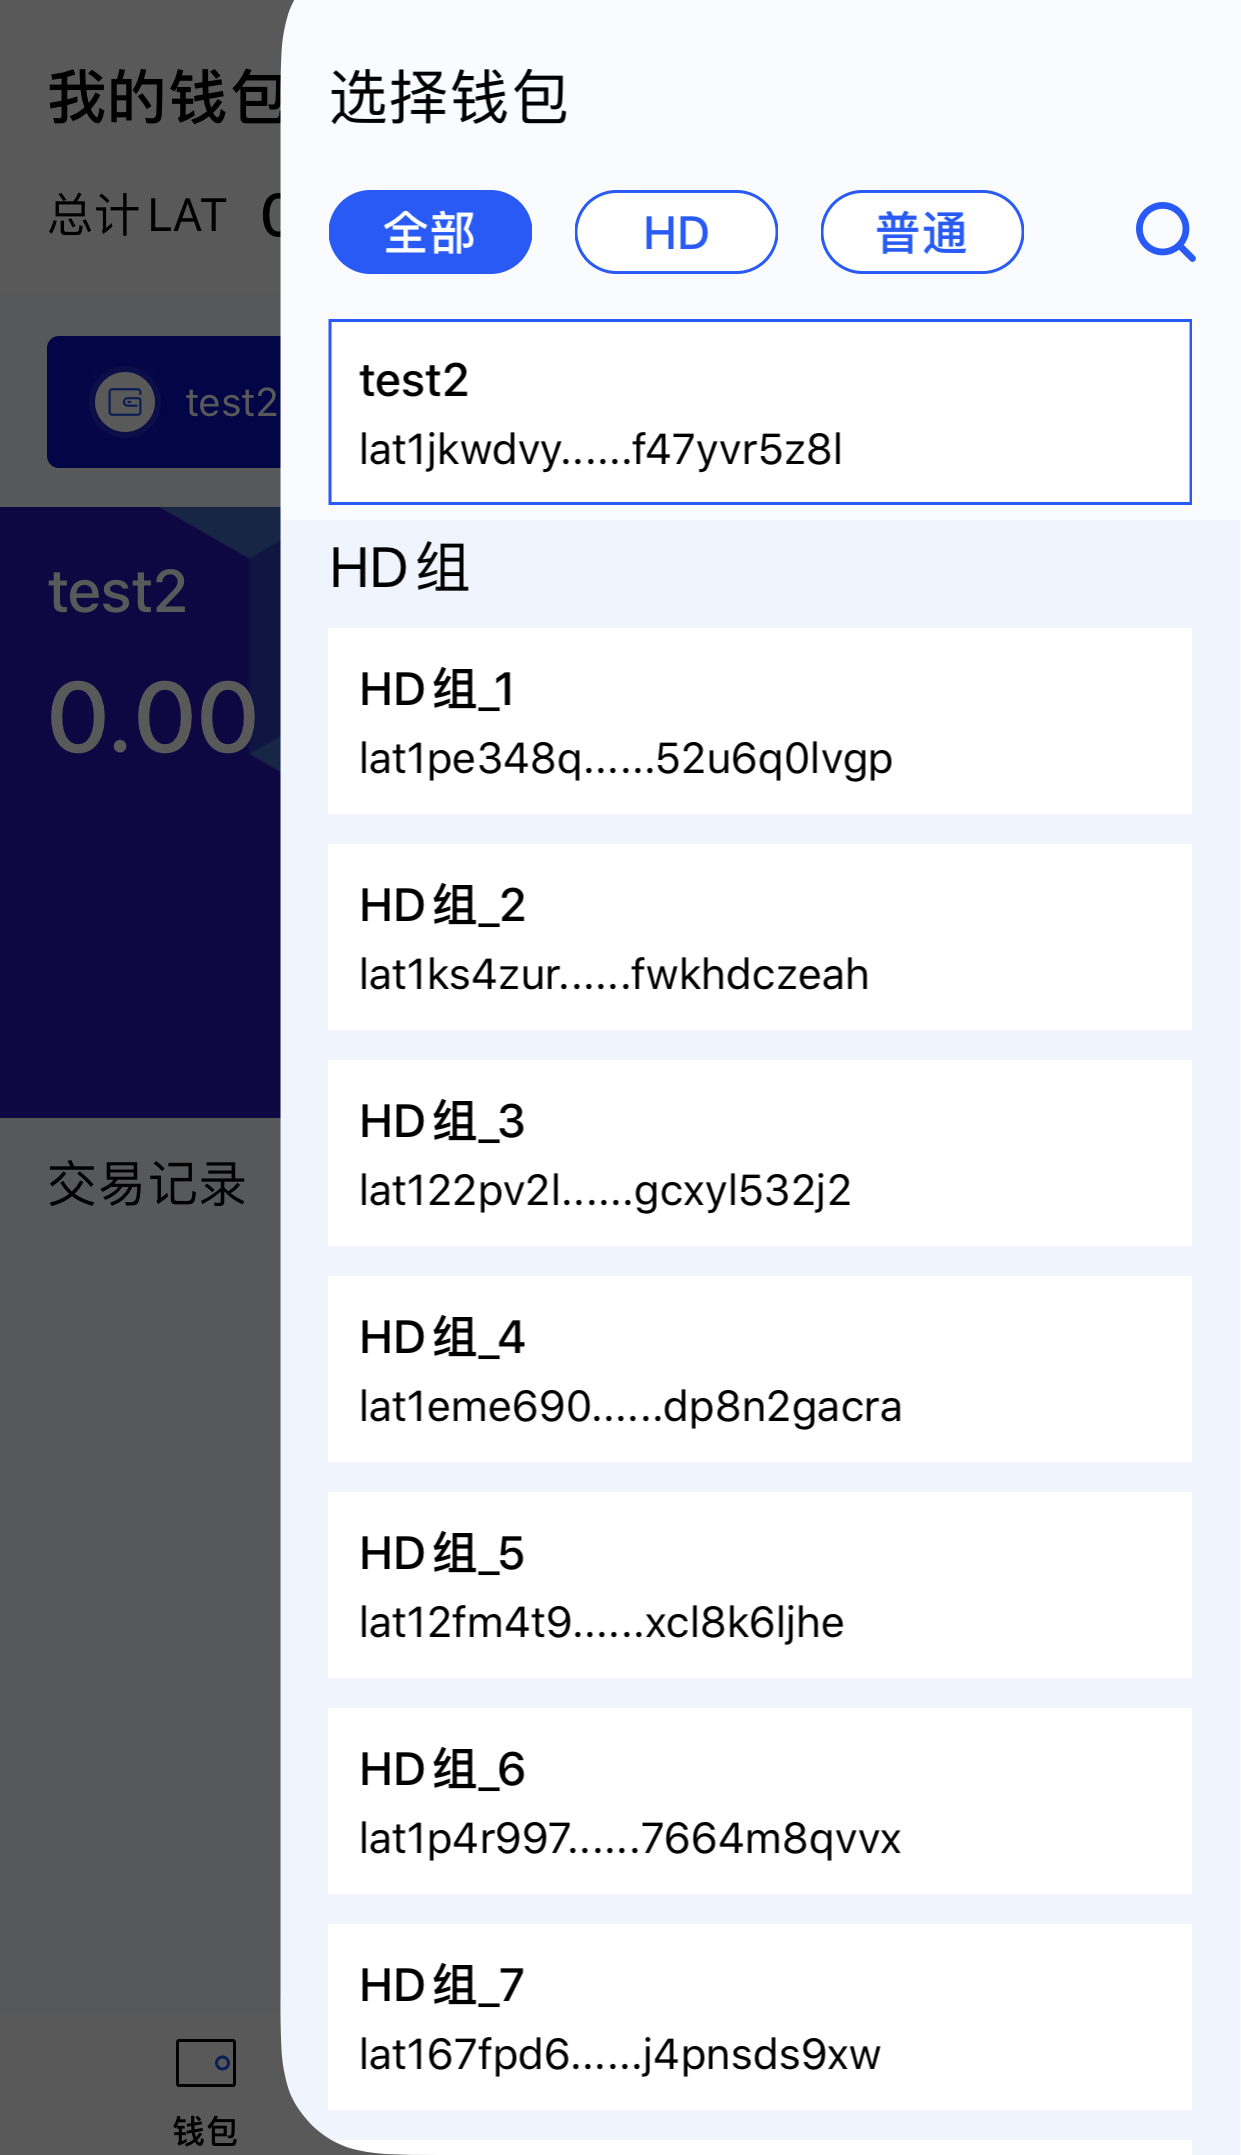
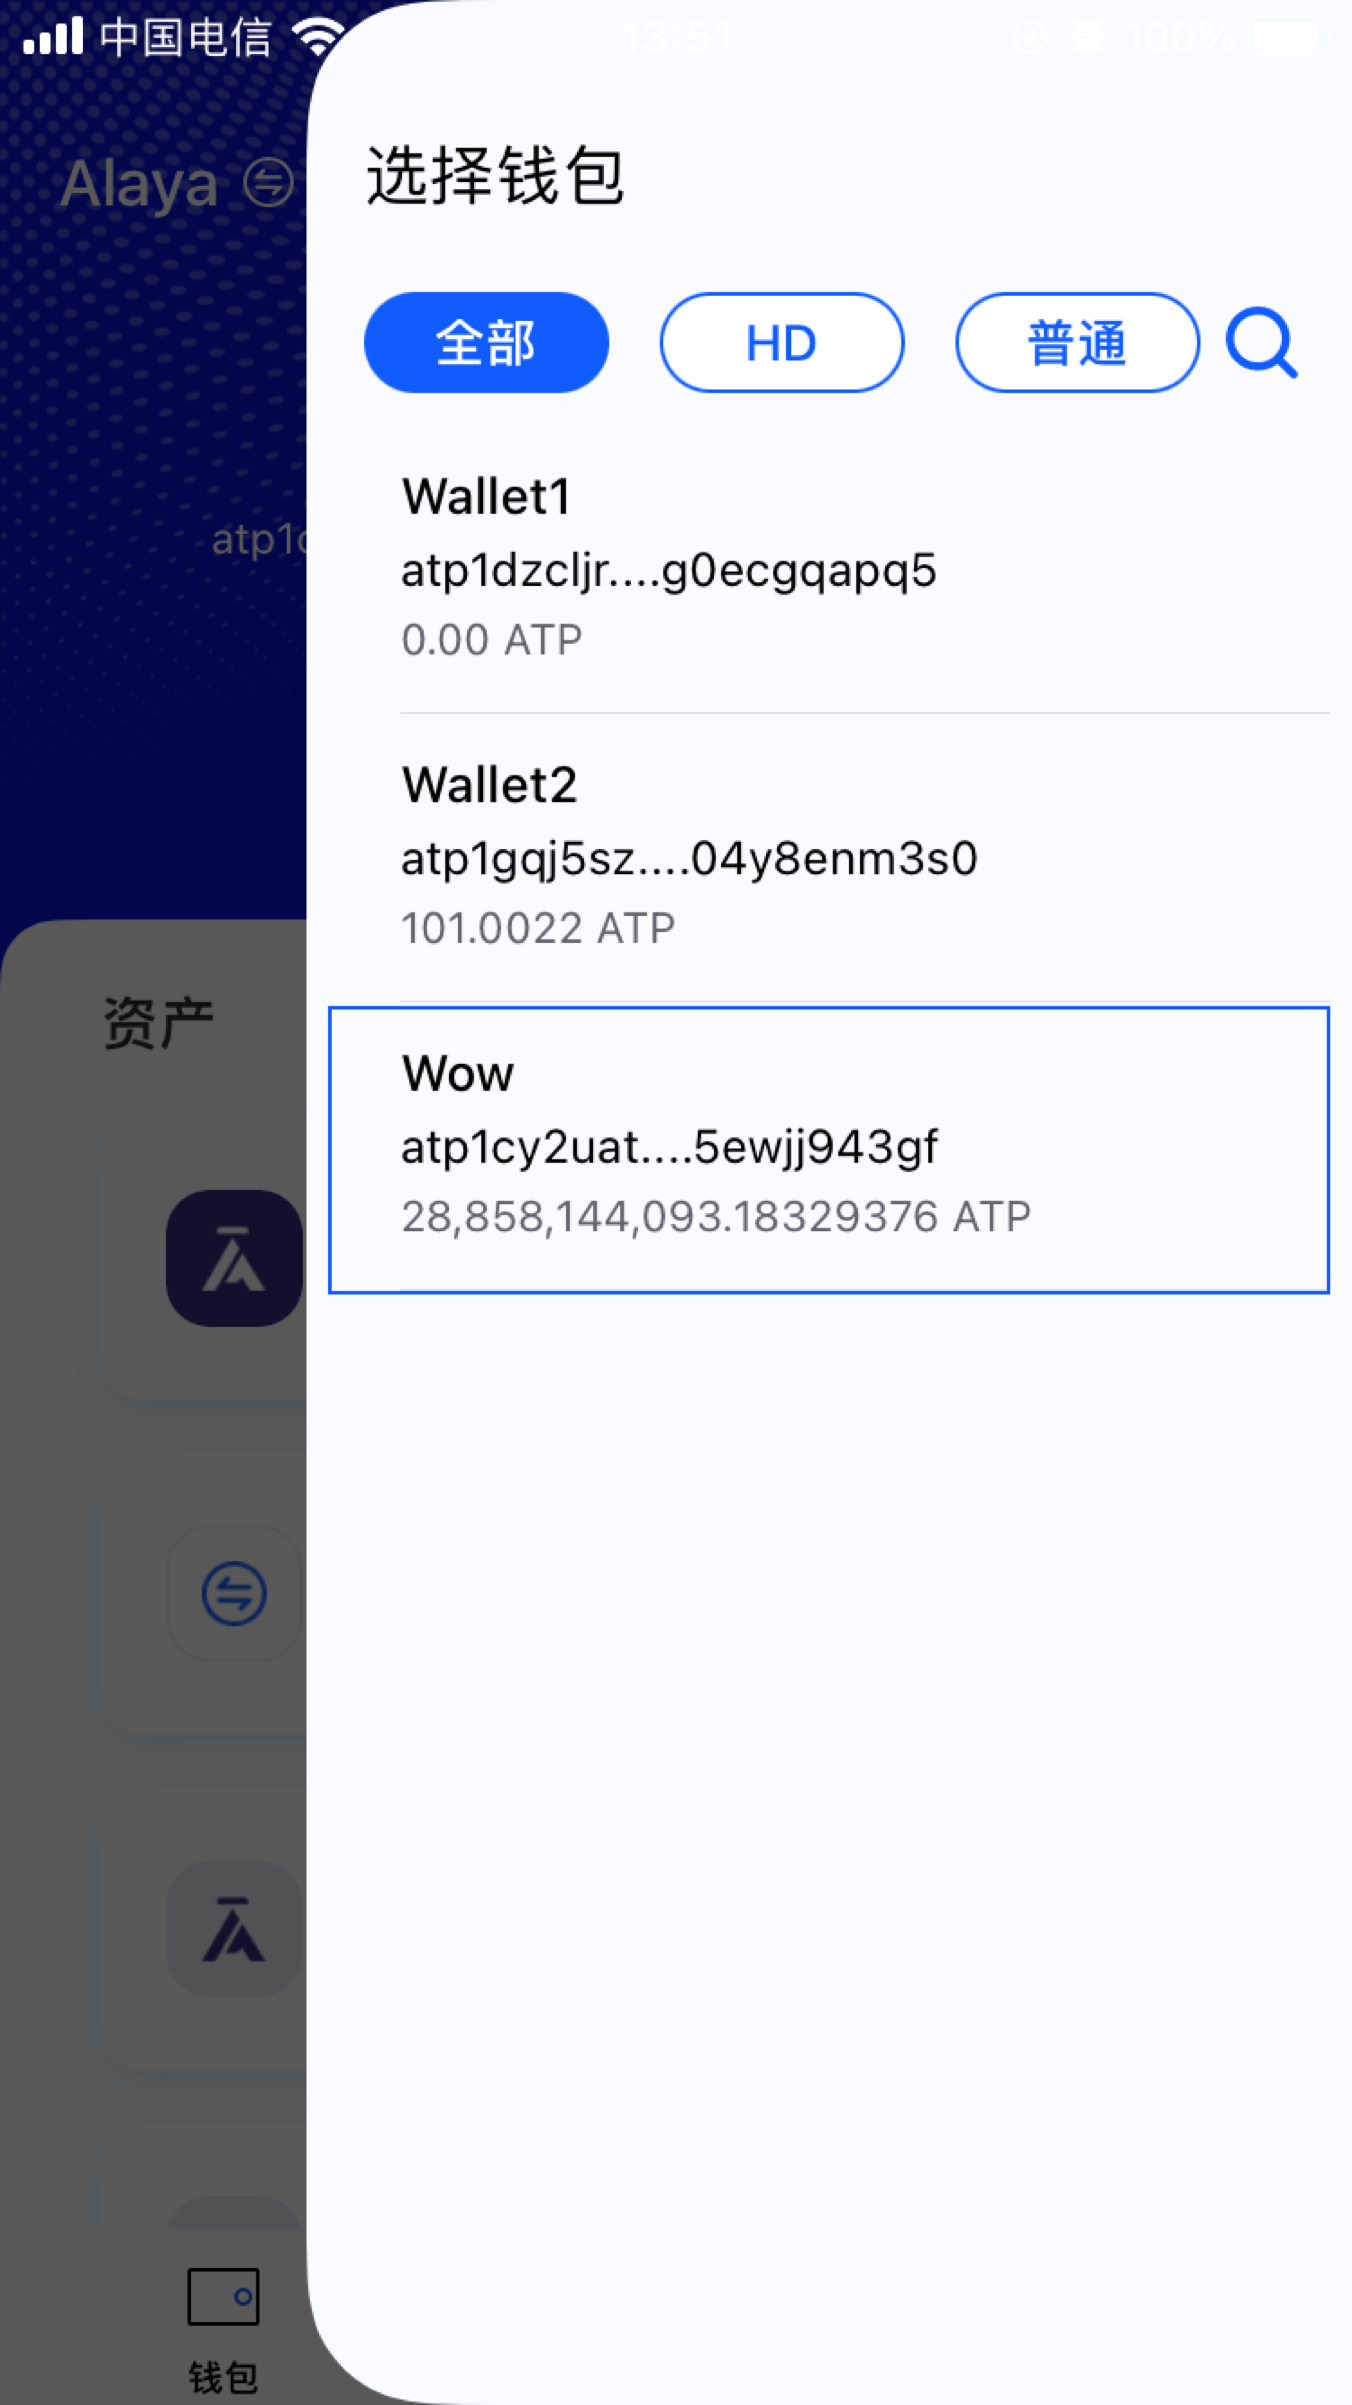
Documents for Chinese update

diff --git a/website/translated_docs/zh-CN/ATON-user-manual.md b/website/translated_docs/zh-CN/ATON-user-manual.md
@@ -5,7 +5,7 @@ title: ATON钱包用户使用手册
 
 ## ATON 下载
 
-<div><br/><a href="https://platon.network/developer/?lang=zh#aton" target="_blank" >点击下载ATON最新版本 </a></div>
+<div><br/><a href="https://pATPon.network/developer/?lang=zh#aton" target="_blank" >点击下载ATON最新版本 </a></div>
 <div style="clear:both"></div>
 <div style="margin-top:40px;"></div>
 
@@ -13,6 +13,28 @@ title: ATON钱包用户使用手册
 
 <div>
 <div style="float:left;"><img src="/alaya-devdocs/img/zh-CN/ATON-manual-cn.assets/aton2.png" width="500" style="padding-bottom:50px;" /></div> <div><br>1. 点击【创建钱包】。<br>2. 选择钱包类型（普通或HD），设置符合规则的钱包名称和钱包密码。<br>3. 点击【创建钱包】按钮即可创建钱包。<br>4. 钱包创建成功后可以点击【钱包备份】开始备份，或者点击【跳过】后续进行备份。<br> <br><b>注意</b><br>1.钱包密码是您操作此钱包的凭证，服务器不会存储您的钱包密码，请务必牢记。<br>2.强烈建议您在创建钱包时即时备份。
+<br>3.点击页面左上角的节点切换切换击页可以切换节点。
+</div>
+<div style="clear:both"></div>
+<div style="margin-top:40px;"></div>
+</div>
+
+## 钱包资产主页
+
+<div>
+<div style="float:left;"><img src="/alaya-devdocs/img/zh-CN/ATON-manual-cn.assets/aton100.png" width="300" style="zoom:80%;"  /></div> <div><br>1. 在存在钱包的情况下，钱包资产主页会显示一个有效的钱包及其资产信息。<br>2. ①顶部部分是当前钱包简要信息。<br>3. ②钱包简要信息包含钱包名和钱包地址。<br>4. ③点击【复制】按钮可以复制当前钱包的地址。<br>5. ④点击【钱包管理】可以对钱包进行管理。<br>6. ⑤顶部左上角显示当前钱包所在节点信息，点击可以切换节点。<br>7. ⑥展示当前账户地址及地址二维码，可供转入ATP。<br>8. ⑦点击【...】可创建、导入和选择钱包，点击扫一扫可扫描二维码。<br>9. 页面下半部分是【资产列表】。<br>10. ⑧第一条是主币数据，可以看到单位和余额，点击可以进入主币详情页面。<br>12. ⑨其余是Token币数据，可以看到单位和余额，点击可以进入主币详情页面。
+
+
+</div>
+<div style="clear:both"></div>
+<div style="margin-top:40px;"></div>
+</div>
+
+## 资产详情页
+
+<div>
+<div style="float:left;"><img src="/alaya-devdocs/img/zh-CN/ATON-manual-cn.assets/aton101.png" width="300" style="zoom:80%;"  /></div> <div><br>1. 在资产管理页点击第一条数据，进入主币资产详情页，点击其余数据进入Token币资产详情页。<br>2. ①顶部部分是当前钱包信息。<br>3. ②钱包信息包含余额、单位和锁仓余额，以及【发送】和【接收】等必显信息。<br>4. ③点击【发送】按钮可以跳转到发送页面进行转账。<br>5. ④点击【接收】可以进入接收页面进行接收转账。<br>6. 页面下半部分是【交易记录】。<br>7. ⑤在Token币资产详情中没有【发送】按钮和【锁仓余额】文字标签。<br>8. ⑥页面下半部分是交易记录，点击单条交易记录可以进入交易记录详情页面。
+
 </div>
 <div style="clear:both"></div>
 <div style="margin-top:40px;"></div>
@@ -66,7 +88,7 @@ title: ATON钱包用户使用手册
 ## 查看钱包信息
 
 <div>
-<div style="float:left;"><img src="/alaya-devdocs/img/zh-CN/ATON-manual-cn.assets/aton12.png" width="300" style="zoom:80%;"  /></div> <div><br>1. 点击【钱包】模块，可以看到所有钱包。<br>2. ①显示所有钱包的LAT总和。<br>3. ②点击不同钱包可切换钱包。<br>4. ③点击可选择该组HD钱包的任意一个子钱包。<br>5. ④当前显示钱包的LAT余额，如果有锁仓余额，在余额下方会显示锁仓金额。<br>6. ⑤显示当前钱包的所有交易记录。<br>7. ⑥可转账LAT至其他账户。<br>8. ⑦展示当前账户地址及地址二维码，可供转入LAT。<br>9. ⑧点击【...】可创建、导入和选择钱包，点击扫一扫可扫描二维码。<br>10. ⑨点击查看钱包详情
+<div style="float:left;"><img src="/alaya-devdocs/img/zh-CN/ATON-manual-cn.assets/aton12.png" width="300" style="zoom:80%;"  /></div> <div><br>1. 点击【钱包】模块，可以看到所有钱包。<br>2. ①显示所有钱包的ATP总和。<br>3. ②点击不同钱包可切换钱包。<br>4. ③点击可选择该组HD钱包的任意一个子钱包。<br>5. ④当前显示钱包的ATP余额，如果有锁仓余额，在余额下方会显示锁仓金额。<br>6. ⑤显示当前钱包的所有交易记录。<br>7. ⑥可转账ATP至其他账户。<br>8. ⑦展示当前账户地址及地址二维码，可供转入ATP。<br>9. ⑧点击【...】可创建、导入和选择钱包，点击扫一扫可扫描二维码。<br>10. ⑨点击查看钱包详情。
 </div>
 <div style="clear:both"></div>
 <div style="margin-top:40px;"></div>
@@ -84,7 +106,7 @@ title: ATON钱包用户使用手册
 ## 接收
 
 <div>
-<div style="float:left;"><img src="/alaya-devdocs/img/zh-CN/ATON-manual-cn.assets/aton15.png" width="300" style="zoom:80%;" /></div><div><br>1. 在钱包首页点击某个具体钱包，点击【接收】栏，则可展示钱包地址和二维码。<br>2. 点击钱包地址复制按钮则可复制地址。<br>3. 点击【保存图片并分享】则可将图片保存至本地相册，并分享给他人。<br>4. 其他方可通过此地址或者扫描此二维码进行LAT转账。<br><br><b>注意</b><br>1. 本APP地址和二维码仅接受Alaya网络的资产，请勿充值其他网络资产至此钱包。<br>2. 充值时，请确认网络的正确性。
+<div style="float:left;"><img src="/alaya-devdocs/img/zh-CN/ATON-manual-cn.assets/aton15.png" width="300" style="zoom:80%;" /></div><div><br>1. 在某个钱包的资产详情页点，点击【接收】栏，则可展示钱包地址和二维码。<br>2. 点击钱包地址复制按钮则可复制地址。<br>3. 点击【保存图片并分享】则可将图片保存至本地相册，并分享给他人。<br>4. 其他方可通过此地址或者扫描此二维码进行ATP转账。<br><br><b>注意</b><br>1. 本APP地址和二维码仅接受Alaya网络的资产，请勿充值其他网络资产至此钱包。<br>2. 充值时，请确认网络的正确性。
 </div>
 <div style="clear:both"></div>
 <div style="margin-top:40px;"></div>
@@ -93,7 +115,7 @@ title: ATON钱包用户使用手册
 ## 发送
 
 <div>
-<div style="float:left;"><img src="/alaya-devdocs/img/zh-CN/ATON-manual-cn.assets/aton17.png" width="500" style="zoom:80%;" /></div><div><br>1.在钱包首页点击某个具体钱包，点击【发送】栏。<br>2.输入有效的钱包地址，或者扫描钱包二维码进行地址的自动填充，或者通过地址簿选择本地已保存的钱包地址。<br>3.输入发送的LAT数量。<br>4.选择交易手续费，可通过点击自由调节更便宜或者更快捷的手续费。<br>5.点击【下一步】，确认交易信息，点击【发送交易】输入正确的钱包密码，即可发送交易至区块链网络。点击【取消】则可取消此次交易。
+<div style="float:left;"><img src="/alaya-devdocs/img/zh-CN/ATON-manual-cn.assets/aton17.png" width="500" style="zoom:80%;" /></div><div><br>1.在主币钱包资产详情页，点击【发送】栏。<br>2.输入有效的钱包地址，或者扫描钱包二维码进行地址的自动填充，或者通过地址簿选择本地已保存的钱包地址。<br>3.输入发送的ATP数量。<br>4.选择交易手续费，可通过点击自由调节更便宜或者更快捷的手续费。<br>5.点击【下一步】，确认交易信息，点击【发送交易】输入正确的钱包密码，即可发送交易至区块链网络。点击【取消】则可取消此次交易。
 </div>
 <div style="clear:both"></div>
 <div style="margin-top:40px;"></div>
@@ -113,7 +135,7 @@ title: ATON钱包用户使用手册
 ### 查看验证节点详情
 
 <div>
-<div style="float:left;"><img src="/alaya-devdocs/img/zh-CN/ATON-manual-cn.assets/aton44.jpg" width="300" style="zoom:80%;" /></div><div><br>1.点击某个具体节点，可查看节点的收益相关信息：<br>- 预计委托收益率：近4个结算周期每份额委托净收益折合成的年化收益率，基于该值可预估委托收益情况<br>-委托奖励比例：节点所获奖励分配给委托者的比例，比例越大，委托奖励越多<br>-累计奖励：节点累计分配的委托奖励数<br>2. 同时可查看节点的基本信息，如委托者信息、出块信息等。<br>3. 如果您想将LAT质押给此节点，可点击下方【委托】按钮进行操作。<br><br><b>注意</b><br>1. 基金会资助的节点，不接受委托。<br>2. 如果当前节点状态为“锁定中”，则不能接受委托。
+<div style="float:left;"><img src="/alaya-devdocs/img/zh-CN/ATON-manual-cn.assets/aton44.jpg" width="300" style="zoom:80%;" /></div><div><br>1.点击某个具体节点，可查看节点的收益相关信息：<br>- 预计委托收益率：近4个结算周期每份额委托净收益折合成的年化收益率，基于该值可预估委托收益情况<br>-委托奖励比例：节点所获奖励分配给委托者的比例，比例越大，委托奖励越多<br>-累计奖励：节点累计分配的委托奖励数<br>2. 同时可查看节点的基本信息，如委托者信息、出块信息等。<br>3. 如果您想将ATP质押给此节点，可点击下方【委托】按钮进行操作。<br><br><b>注意</b><br>1. 基金会资助的节点，不接受委托。<br>2. 如果当前节点状态为“锁定中”，则不能接受委托。
 </div>
 <div style="clear:both"></div>
 <div style="margin-top:40px;"></div>
@@ -124,7 +146,7 @@ title: ATON钱包用户使用手册
 ### 参与委托
 
 <div>
-<div style="float:left;"><img src="/alaya-devdocs/img/zh-CN/ATON-manual-cn.assets/aton45.png" width="300" style="zoom:80%;"  /></div><div><br>1. 可点击【委托-验证节点】，选择某个节点进行委托。如果已委托过，可点击【委托-我的委托-委托节点详情】，选择某个节点继续进行委托。<br>2. 进入页面，选择需要委托的钱包。<br>3. 如果钱包有锁仓金额，可点击委托钱包余额选项栏进行切换，使用锁仓金额进行委托（注意钱包余额需足够支付委托交易手续费）。<br>4. 输入委托的金额，每次委托不得小于10LAT。<br>5. 输入正确的密码即可完成委托。<br>6. 已委托过的节点，可再次进行委托，无次数限制。<br><br><b>注意</b><br>1. 委托人将LAT委托给节点，当委托的节点产生收益时，委托人将会获得基于节点配置的委托奖励比例分配的收益。<br>2. 收益节点关联的钱包地址，不可参与委托。<br>3. 委托的LAT在下个结算周期才开始生效。
+<div style="float:left;"><img src="/alaya-devdocs/img/zh-CN/ATON-manual-cn.assets/aton45.png" width="300" style="zoom:80%;"  /></div><div><br>1. 可点击【委托-验证节点】，选择某个节点进行委托。如果已委托过，可点击【委托-我的委托-委托节点详情】，选择某个节点继续进行委托。<br>2. 进入页面，选择需要委托的钱包。<br>3. 如果钱包有锁仓金额，可点击委托钱包余额选项栏进行切换，使用锁仓金额进行委托（注意钱包余额需足够支付委托交易手续费）。<br>4. 输入委托的金额，每次委托不得小于10ATP。<br>5. 输入正确的密码即可完成委托。<br>6. 已委托过的节点，可再次进行委托，无次数限制。<br><br><b>注意</b><br>1. 委托人将ATP委托给节点，当委托的节点产生收益时，委托人将会获得基于节点配置的委托奖励比例分配的收益。<br>2. 收益节点关联的钱包地址，不可参与委托。<br>3. 委托的ATP在下个结算周期才开始生效。
 </div>
 <div style="clear:both"></div>
 <div style="margin-top:40px;"></div>
@@ -142,7 +164,7 @@ title: ATON钱包用户使用手册
 ### 赎回委托
 
 <div>
-<div style="float:left;"><img src="/alaya-devdocs/img/zh-CN/ATON-manual-cn.assets/aton47.jpg" width="500"style="zoom:80%;" /></div><div><br>1. 点击【委托-我的委托-详情-赎回委托】可进行赎回。<br>2. 输入想要赎回的数量，数量需大于等于10LAT，输入正确的密码即可完成赎回委托操作。<br><br><b>注意:</b><br>1. 赎回委托，将立即到账。<br>2. 操作全部赎回时，将自动领取委托奖励。
+<div style="float:left;"><img src="/alaya-devdocs/img/zh-CN/ATON-manual-cn.assets/aton47.jpg" width="500"style="zoom:80%;" /></div><div><br>1. 点击【委托-我的委托-详情-赎回委托】可进行赎回。<br>2. 输入想要赎回的数量，数量需大于等于10ATP，输入正确的密码即可完成赎回委托操作。<br><br><b>注意:</b><br>1. 赎回委托，将立即到账。<br>2. 操作全部赎回时，将自动领取委托奖励。
 </div>
 <div style="clear:both"></div>
 <div style="margin-top:40px;"></div>
@@ -188,7 +210,7 @@ title: ATON钱包用户使用手册
 **3. 观察钱包操作**
 
 <div>
-<div style="float:left;"><img src="/alaya-devdocs/img/zh-CN/ATON-manual-cn.assets/aton35.png" width="300" style="zoom:80%;" /></div><div><br>（1）点击步骤1图里面的【下一步】按钮，到达读取签名数据页面。<br>（2）点击扫一扫图标，扫描步骤2冷钱包页面的二维码，则可获取签名数据。<br>（3）点击【发送交易】，即可将交易发送至区块链网络。<br><br><b>注意</b><br>1. 观察钱包需配合冷钱包进行操作，否则无法转账。<br>2. 请不要将资产充值至您无法掌控的观察钱包地址上。
+<div style="float:left;"><img src="/alaya-devdocs/img/zh-CN/ATON-manual-cn.assets/aton35.png" width="300" style="zoom:80%;" /></div><div><br>（1）使用观察钱包进行发送、委托和赎回操作时，需要离线签名。(2)点击【下一步】按钮，到达读取签名数据页面<br>（3）点击扫一扫图标，扫描步骤2冷钱包页面的二维码，则可获取签名数据。<br>（4）点击【发送交易】，即可将交易发送至区块链网络。<br><br><b>注意</b><br>1. 观察钱包需配合冷钱包进行操作，否则无法转账。<br>2. 请不要将资产充值至您无法掌控的观察钱包地址上。
 <div style="clear:both"></div>
 <div style="margin-top:40px;"></div>
 </div>
